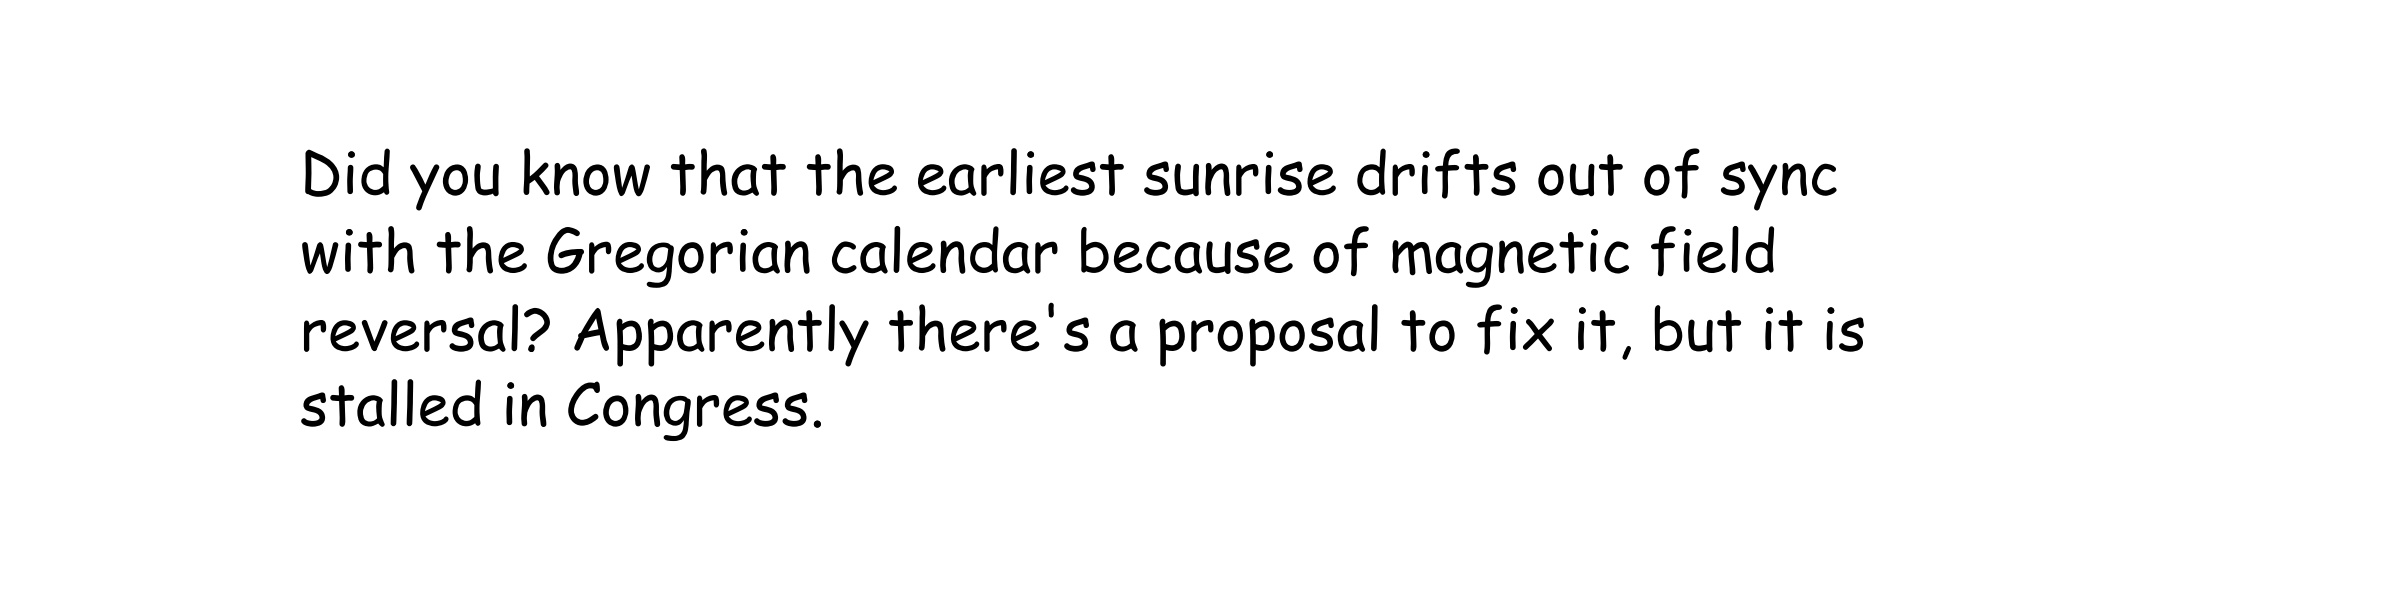
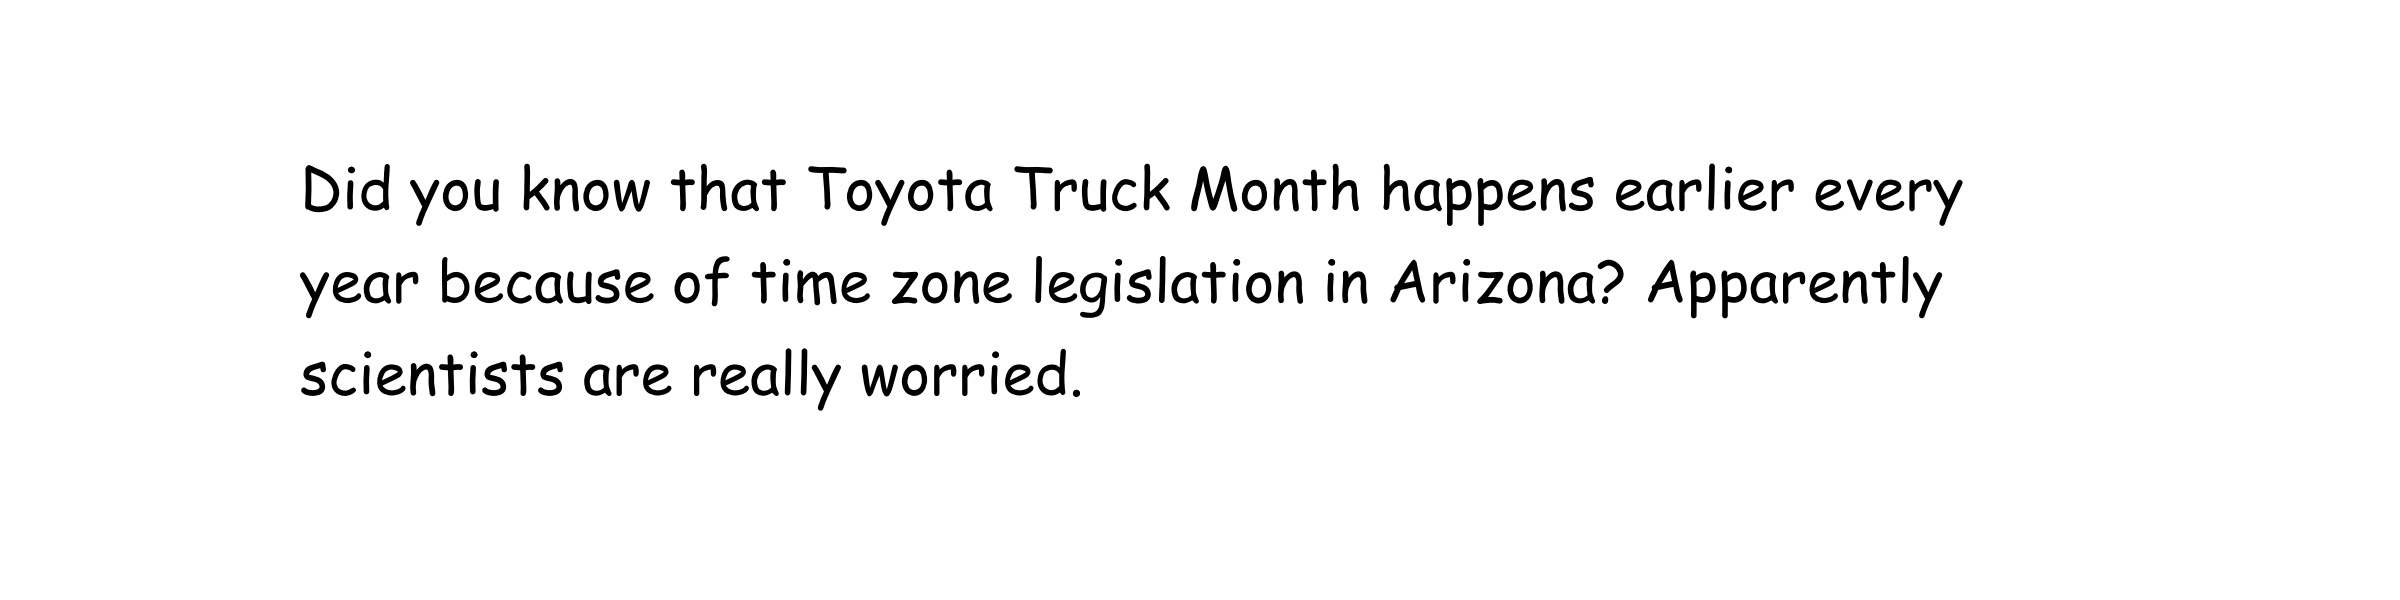
Second block rework

Changed region(s): [[0.125, 0.39, 0.8125, 0.72], [0.125, 0.24, 0.8125, 0.36]]

diff --git a/doc/xkcd1930.html b/doc/xkcd1930.html
@@ -46,9 +46,10 @@ SOFTWARE.</tt></p>
 <tr><td bgcolor="#aa55cc"><tt>&nbsp;&nbsp;&nbsp;&nbsp;&nbsp;&nbsp;</tt></td><td>&nbsp;</td>
 <td width="100%"><table width="100%" summary="list"><tr><td width="25%" valign=top><a href="json.html">json</a><br>
 <a href="logging.html">logging</a><br>
-</td><td width="25%" valign=top><a href="matplotlib.pyplot.html">matplotlib.pyplot</a><br>
-<a href="random.html">random</a><br>
-</td><td width="25%" valign=top><a href="textwrap.html">textwrap</a><br>
+</td><td width="25%" valign=top><a href="os.html">os</a><br>
+<a href="matplotlib.pyplot.html">matplotlib.pyplot</a><br>
+</td><td width="25%" valign=top><a href="random.html">random</a><br>
+<a href="textwrap.html">textwrap</a><br>
 </td><td width="25%" valign=top></td></tr></table></td></tr></table><p>
 <table width="100%" cellspacing=0 cellpadding=2 border=0 summary="section">
 <tr bgcolor="#ee77aa">
@@ -78,17 +79,30 @@ SOFTWARE.</tt></p>
 &nbsp;<br>
 Each&nbsp;instance&nbsp;is&nbsp;initialized&nbsp;with&nbsp;an&nbsp;empty&nbsp;statement</tt></dd></dl>
 
+<dl><dt><a name="Xkcd1930-add_choice_to_statement"><strong>add_choice_to_statement</strong></a>(self, options: tuple)</dt><dd><tt>Add&nbsp;a&nbsp;choice&nbsp;to&nbsp;current&nbsp;statement<br>
+&nbsp;<br>
+:param&nbsp;options:&nbsp;Available&nbsp;option&nbsp;for&nbsp;choice</tt></dd></dl>
+
 <dl><dt><a name="Xkcd1930-append_first_block"><strong>append_first_block</strong></a>(self)</dt><dd><tt>Append&nbsp;the&nbsp;first&nbsp;block&nbsp;of&nbsp;the&nbsp;sentence&nbsp;to&nbsp;the&nbsp;current&nbsp;statement</tt></dd></dl>
 
-<dl><dt><a name="Xkcd1930-generate_image"><strong>generate_image</strong></a>(self)</dt><dd><tt>Generate&nbsp;current&nbsp;statement&nbsp;image</tt></dd></dl>
+<dl><dt><a name="Xkcd1930-append_fourth_block"><strong>append_fourth_block</strong></a>(self)</dt><dd><tt>Append&nbsp;the&nbsp;fourth&nbsp;block&nbsp;of&nbsp;the&nbsp;sentence&nbsp;to&nbsp;the&nbsp;current&nbsp;statement</tt></dd></dl>
+
+<dl><dt><a name="Xkcd1930-append_second_block"><strong>append_second_block</strong></a>(self)</dt><dd><tt>Append&nbsp;the&nbsp;second&nbsp;block&nbsp;of&nbsp;the&nbsp;sentence&nbsp;to&nbsp;the&nbsp;current&nbsp;statement</tt></dd></dl>
+
+<dl><dt><a name="Xkcd1930-append_third_block"><strong>append_third_block</strong></a>(self)</dt><dd><tt>Append&nbsp;the&nbsp;third&nbsp;block&nbsp;of&nbsp;the&nbsp;sentence&nbsp;to&nbsp;the&nbsp;current&nbsp;statement</tt></dd></dl>
+
+<dl><dt><a name="Xkcd1930-generate_image"><strong>generate_image</strong></a>(self) -&gt; bool</dt><dd><tt>Generate&nbsp;current&nbsp;statement&nbsp;image<br>
+&nbsp;<br>
+:return:&nbsp;bool.&nbsp;Whether&nbsp;image&nbsp;the&nbsp;image&nbsp;has&nbsp;been&nbsp;generated&nbsp;or&nbsp;not.</tt></dd></dl>
 
 <dl><dt><a name="Xkcd1930-generate_statement"><strong>generate_statement</strong></a>(self)</dt><dd><tt>Generate&nbsp;statement&nbsp;and&nbsp;output&nbsp;it&nbsp;to&nbsp;the&nbsp;terminal</tt></dd></dl>
 
-<dl><dt><a name="Xkcd1930-get_fourth_block"><strong>get_fourth_block</strong></a>(self)</dt></dl>
-
-<dl><dt><a name="Xkcd1930-get_second_block"><strong>get_second_block</strong></a>(self)</dt></dl>
-
-<dl><dt><a name="Xkcd1930-get_third_block"><strong>get_third_block</strong></a>(self)</dt></dl>
+<dl><dt><a name="Xkcd1930-initiate_block"><strong>initiate_block</strong></a>(self, pool: tuple) -&gt; int</dt><dd><tt>Initiate&nbsp;block<br>
+&nbsp;<br>
+Appends&nbsp;beginning&nbsp;of&nbsp;new&nbsp;block&nbsp;to&nbsp;statement&nbsp;and&nbsp;returns&nbsp;used&nbsp;random&nbsp;index<br>
+&nbsp;<br>
+:param&nbsp;pool:&nbsp;Pool&nbsp;of&nbsp;options&nbsp;starting&nbsp;the&nbsp;block<br>
+:return:&nbsp;int.&nbsp;Chosen&nbsp;index</tt></dd></dl>
 
 <hr>
 Data descriptors defined here:<br>
@@ -98,10 +112,6 @@ Data descriptors defined here:<br>
 <dl><dt><strong>__weakref__</strong></dt>
 <dd><tt>list&nbsp;of&nbsp;weak&nbsp;references&nbsp;to&nbsp;the&nbsp;object&nbsp;(if&nbsp;defined)</tt></dd>
 </dl>
-<hr>
-Data and other attributes defined here:<br>
-<dl><dt><strong>FIRST_BLOCK_POOL</strong> = ('the ', 'daylight ', 'leap ', 'Easter ', 'Toyota Truck Month ', 'Shark Week ')</dl>
-
 </td></tr></table></td></tr></table><p>
 <table width="100%" cellspacing=0 cellpadding=2 border=0 summary="section">
 <tr bgcolor="#eeaa77">
@@ -111,8 +121,8 @@ Data and other attributes defined here:<br>
 <tr><td bgcolor="#eeaa77"><tt>&nbsp;&nbsp;&nbsp;&nbsp;&nbsp;&nbsp;</tt></td><td>&nbsp;</td>
 <td width="100%"><dl><dt><a name="-main"><strong>main</strong></a>()</dt><dd><tt>xkcd&nbsp;Strip&nbsp;1930&nbsp;Main&nbsp;Function<br>
 &nbsp;<br>
-Generate&nbsp;10&nbsp;random&nbsp;calendar&nbsp;facts&nbsp;based&nbsp;on&nbsp;the&nbsp;strip's&nbsp;schema.&nbsp;The&nbsp;last&nbsp;statement&nbsp;is&nbsp;saved&nbsp;as<br>
-image&nbsp;(JPG)&nbsp;in&nbsp;the&nbsp;imgs/&nbsp;subdirectory.</tt></dd></dl>
+Generate&nbsp;N_STATEMENTS&nbsp;random&nbsp;calendar&nbsp;facts&nbsp;based&nbsp;on&nbsp;the&nbsp;strip's&nbsp;schema.<br>
+The&nbsp;last&nbsp;statement&nbsp;is&nbsp;saved&nbsp;as&nbsp;image&nbsp;(JPG)&nbsp;in&nbsp;the&nbsp;imgs/&nbsp;subdirectory.</tt></dd></dl>
  <dl><dt><a name="-setup"><strong>setup</strong></a>()</dt><dd><tt>Setup&nbsp;steps</tt></dd></dl>
 </td></tr></table><p>
 <table width="100%" cellspacing=0 cellpadding=2 border=0 summary="section">
@@ -121,7 +131,7 @@ image&nbsp;(JPG)&nbsp;in&nbsp;the&nbsp;imgs/&nbsp;subdirectory.</tt></dd></dl>
 <font color="#ffffff" face="helvetica, arial"><big><strong>Data</strong></big></font></td></tr>
     
 <tr><td bgcolor="#55aa55"><tt>&nbsp;&nbsp;&nbsp;&nbsp;&nbsp;&nbsp;</tt></td><td>&nbsp;</td>
-<td width="100%"><strong>CFG</strong> = {'FIG_SIZE': [9, 1], 'IMG_DIR': './imgs/', 'LINE_CHAR_LENGTH': 60, 'PLTLIB_RC': {'savefig': {'dpi': 300, 'format': 'jpg'}}}<br>
-<strong>fp</strong> = &lt;_io.TextIOWrapper name='config.json' mode='r' encoding='UTF-8'&gt;<br>
-<strong>logger</strong> = &lt;Logger xkcd1930 (DEBUG)&gt;</td></tr></table>
+<td width="100%"><strong>GFG</strong> = None<br>
+<strong>ROOT_LOCATION</strong> = '/Users/alessandroschaer/Documents/private/code/thank_you_xkcd'<br>
+<strong>logger</strong> = None</td></tr></table>
 </body></html>

diff --git a/xkcd1930.py b/xkcd1930.py
@@ -178,22 +178,18 @@ class Xkcd1930:
             self.statement += "every year "
 
         elif random_index == 1:
-            # TODO Rework this case
-            up_or_down = random.randrange(5)
-            if up_or_down == 0:
-                self.statement += "sun "
-            elif up_or_down == 1:
-                self.statement += "moon "
-            elif up_or_down == 2:
-                self.statement += "zodiac "
-            elif up_or_down == 3:
-                self.add_choice_to_statement(
-                    ("Gregorian ", "Mayan ", "Lunar ", "iPhone ")
+            self.add_choice_to_statement(
+                (
+                    "sun ",
+                    "moon ",
+                    "zodiac ",
+                    "Gregorian calendar ",
+                    "Mayan calendar ",
+                    "Lunar calendar ",
+                    "iPhone calendar ",
+                    "atomic clock in Colorado ",
                 )
-                self.statement += "calendar "
-
-            else:
-                self.statement += "atomic clock in Colorado "
+            )
 
         else:
             self.add_choice_to_statement(("not happen ", "happen twice "))
